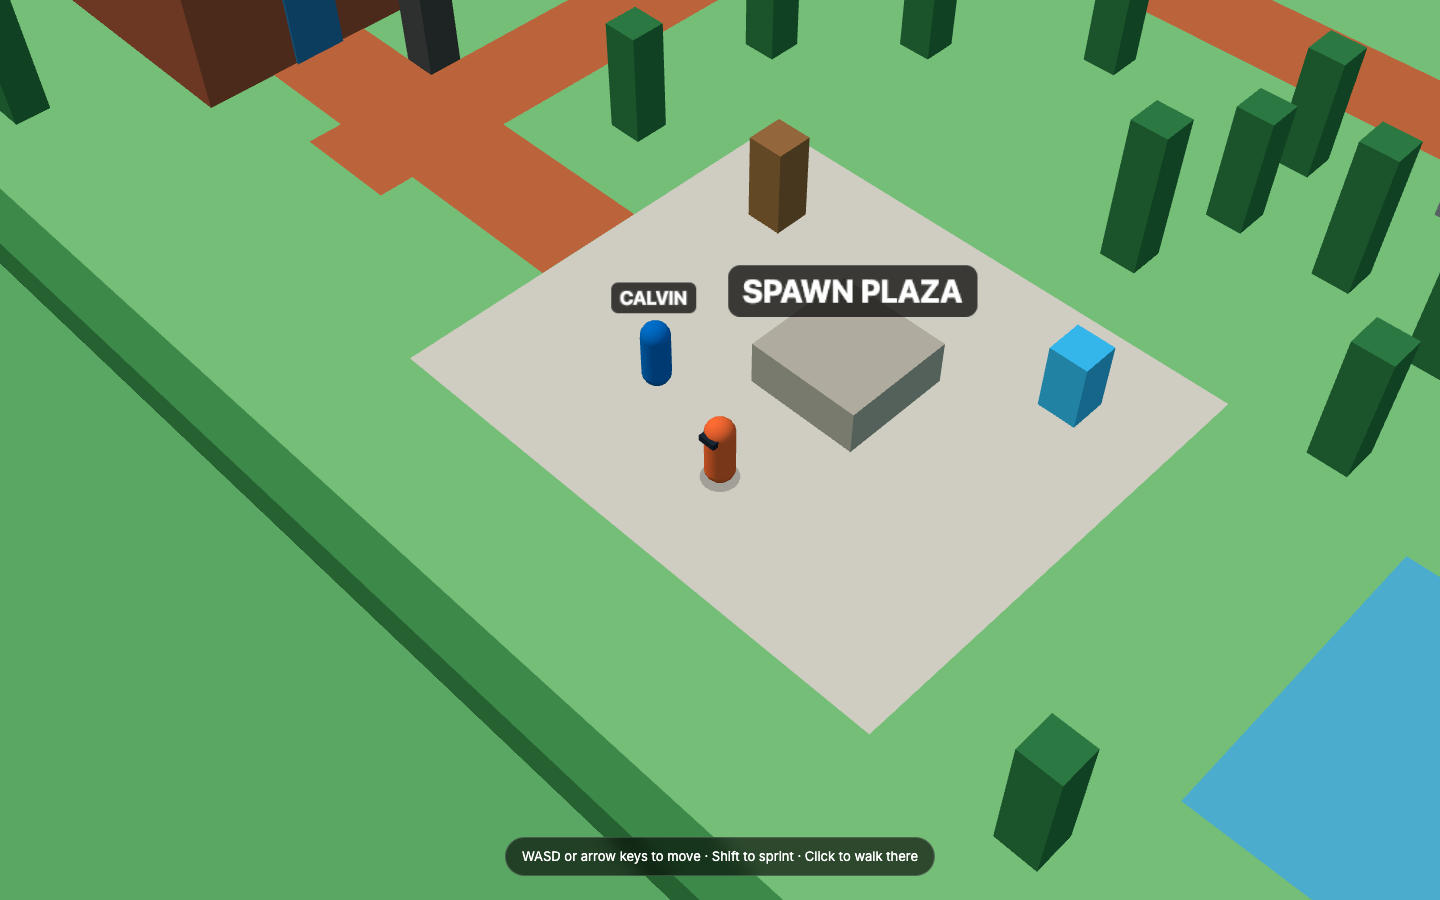
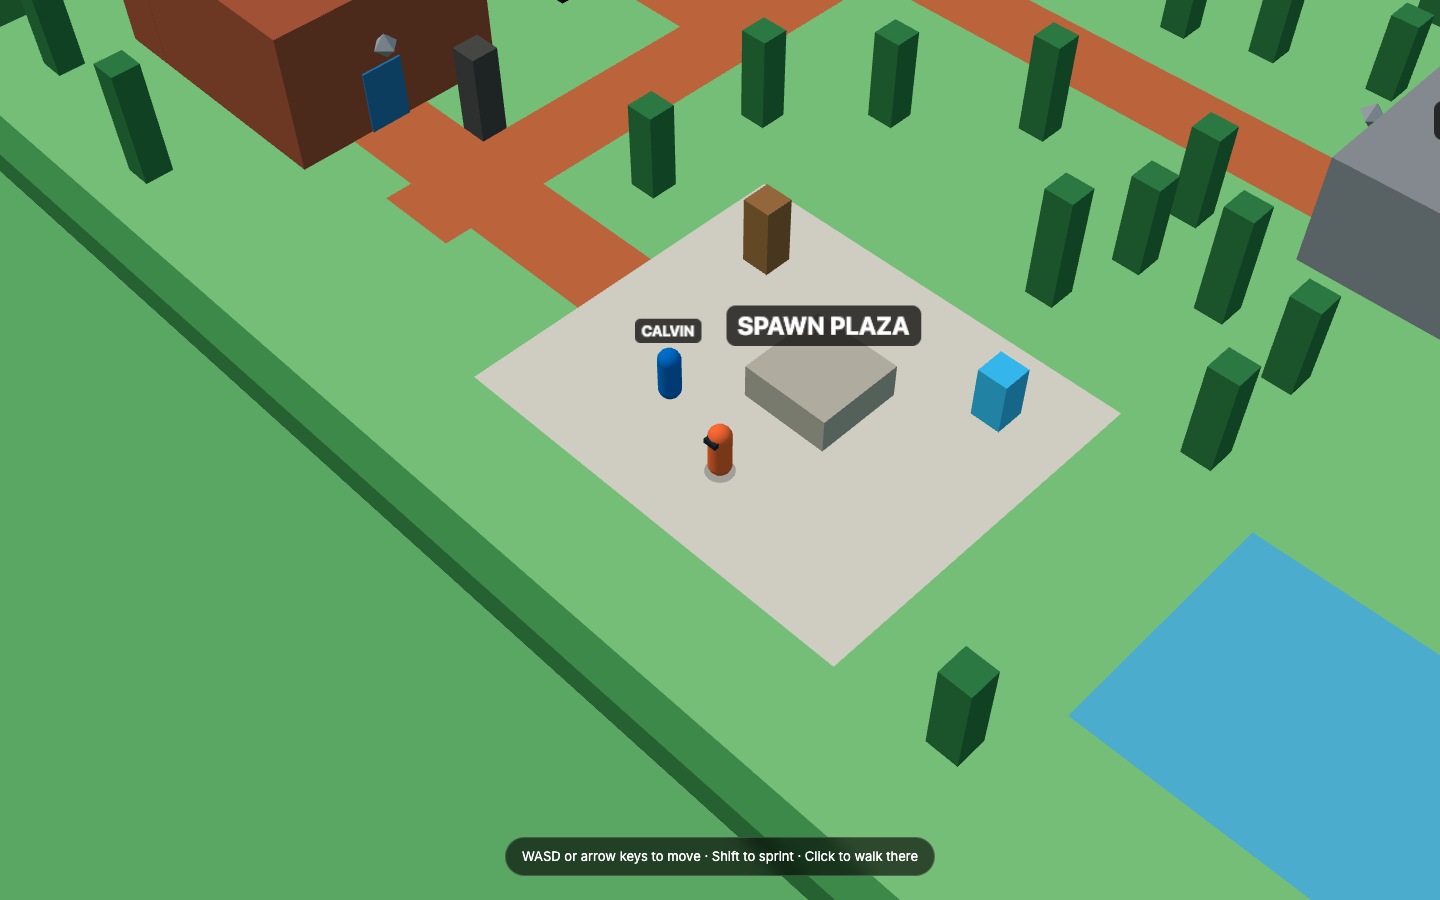
Fix joystick in place, pull the camera back, and flash the controls hint

diff --git a/src/engine/input.ts b/src/engine/input.ts
@@ -11,7 +11,8 @@ export interface InputState {
   tap: { x: number; y: number } | null;
 }
 
-const JOY_RADIUS = 56; // px
+const JOY_RADIUS = 48; // px
+const JOY_GRAB = 1.8; // a touch within this many radii of the stick grabs it
 const JOY_DEADZONE = 0.14;
 const JOY_SPRINT = 0.85;
 const TAP_SLOP = 12; // px a touch can drift and still count as a tap
@@ -132,19 +133,33 @@ export class Input {
     }
   };
 
-  private inJoystickZone(x: number, y: number): boolean {
-    const r = this.canvas.getBoundingClientRect();
-    return x - r.left < r.width * 0.45 && y - r.top > r.height * 0.5;
+  /** The stick sits at a fixed spot (placed by CSS). Returns its center, or null when it's hidden. */
+  private joystickCenter(): { x: number; y: number } | null {
+    const r = this.joyEl.getBoundingClientRect();
+    if (getComputedStyle(this.joyEl).display === 'none') return null;
+    return { x: r.left, y: r.top };
+  }
+
+  private setJoystick(clientX: number, clientY: number): void {
+    let dx = clientX - this.joyBase.x;
+    let dy = clientY - this.joyBase.y;
+    const dist = Math.hypot(dx, dy);
+    if (dist > JOY_RADIUS) {
+      dx = (dx / dist) * JOY_RADIUS;
+      dy = (dy / dist) * JOY_RADIUS;
+    }
+    this.joyVec = { x: dx / JOY_RADIUS, y: dy / JOY_RADIUS };
+    this.drawJoystick();
   }
 
   private onPointerDown = (e: PointerEvent): void => {
     if (e.pointerType === 'mouse' && e.button !== 0) return;
-    if (e.pointerType === 'touch' && this.joyId === null && this.inJoystickZone(e.clientX, e.clientY)) {
+    const center = e.pointerType === 'touch' && this.joyId === null ? this.joystickCenter() : null;
+    if (center && Math.hypot(e.clientX - center.x, e.clientY - center.y) <= JOY_RADIUS * JOY_GRAB) {
       this.joyId = e.pointerId;
-      this.joyBase = { x: e.clientX, y: e.clientY };
-      this.joyVec = { x: 0, y: 0 };
+      this.joyBase = center;
       this.canvas.setPointerCapture(e.pointerId);
-      this.drawJoystick();
+      this.setJoystick(e.clientX, e.clientY);
       return;
     }
     this.pending.set(e.pointerId, { x: e.clientX, y: e.clientY, t: performance.now(), moved: false });
@@ -152,19 +167,7 @@ export class Input {
 
   private onPointerMove = (e: PointerEvent): void => {
     if (e.pointerId === this.joyId) {
-      let dx = e.clientX - this.joyBase.x;
-      let dy = e.clientY - this.joyBase.y;
-      const dist = Math.hypot(dx, dy);
-      if (dist > JOY_RADIUS) {
-        // Past the rim, drag the base along so the thumb never "falls off" the stick.
-        const over = dist - JOY_RADIUS;
-        this.joyBase.x += (dx / dist) * over;
-        this.joyBase.y += (dy / dist) * over;
-        dx = (dx / dist) * JOY_RADIUS;
-        dy = (dy / dist) * JOY_RADIUS;
-      }
-      this.joyVec = { x: dx / JOY_RADIUS, y: dy / JOY_RADIUS };
-      this.drawJoystick();
+      this.setJoystick(e.clientX, e.clientY);
       return;
     }
     const p = this.pending.get(e.pointerId);
@@ -191,12 +194,12 @@ export class Input {
   private endJoystick(): void {
     this.joyId = null;
     this.joyVec = { x: 0, y: 0 };
-    this.joyEl.classList.remove('is-active');
+    this.joyEl.classList.remove('is-active', 'is-sprint');
+    this.knobEl.style.transform = '';
   }
 
   private drawJoystick(): void {
     this.joyEl.classList.add('is-active');
-    this.joyEl.style.transform = `translate(${this.joyBase.x}px, ${this.joyBase.y}px)`;
     this.knobEl.style.transform = `translate(${this.joyVec.x * JOY_RADIUS}px, ${this.joyVec.y * JOY_RADIUS}px)`;
     this.joyEl.classList.toggle('is-sprint', Math.hypot(this.joyVec.x, this.joyVec.y) >= JOY_SPRINT);
   }

diff --git a/tests/e2e/smoke.spec.ts b/tests/e2e/smoke.spec.ts
@@ -118,7 +118,7 @@ test.describe('keyboard', () => {
 test.describe('touch', () => {
   test.skip(({ isMobile }) => !isMobile, 'mobile only');
 
-  test('joystick spawns under the thumb, moves the player, and releases cleanly', async ({ page }) => {
+  test('fixed joystick moves the player and releases cleanly', async ({ page }) => {
     await boot(page);
     const cdp = await page.context().newCDPSession(page);
     const touch = (type: 'touchStart' | 'touchMove' | 'touchEnd', x?: number, y?: number) =>
@@ -127,16 +127,17 @@ test.describe('touch', () => {
         touchPoints: x === undefined ? [] : [{ x, y: y!, id: 1 }],
       });
     const start = await pos(page);
-    await touch('touchStart', 90, 700);
+    await expect(page.locator('.joystick-knob')).toBeVisible(); // fixed stick, always on screen
+    await touch('touchStart', 84, 748);
     await expect(page.locator('.joystick')).toHaveClass(/is-active/);
     // Light push: analog walk, slower than full walk speed.
-    await touch('touchMove', 90, 680);
+    await touch('touchMove', 84, 728);
     await expect.poll(async () => dist(await pos(page), start), { timeout: 20_000 }).toBeGreaterThan(0.4);
     const slow = await speed(page);
     expect(slow).toBeGreaterThan(0.5);
     expect(slow).toBeLessThan(3.9);
     // Full push: sprint.
-    await touch('touchMove', 90, 620);
+    await touch('touchMove', 84, 690);
     await expect(page.locator('.joystick')).toHaveClass(/is-sprint/);
     await expect.poll(() => speed(page), { timeout: 20_000 }).toBeCloseTo(6.5, 1);
     await touch('touchEnd');
@@ -144,7 +145,7 @@ test.describe('touch', () => {
     await settle(page);
   });
 
-  test('a touch outside the joystick zone does not spawn the joystick', async ({ page }) => {
+  test('a touch away from the joystick does not grab it', async ({ page }) => {
     await boot(page);
     const cdp = await page.context().newCDPSession(page);
     await cdp.send('Input.dispatchTouchEvent', { type: 'touchStart', touchPoints: [{ x: 300, y: 300, id: 1 }] });

diff --git a/src/ui/styles/main.css b/src/ui/styles/main.css
@@ -95,10 +95,18 @@ body {
   text-align: center;
   pointer-events: none !important;
   transition: opacity 0.6s ease;
+  animation: hint-flash 1.3s ease-in-out infinite;
+}
+
+@keyframes hint-flash {
+  50% {
+    opacity: 0.35;
+  }
 }
 
 .hint.is-hidden {
   opacity: 0;
+  animation: none;
 }
 
 .hint-touch,
@@ -113,34 +121,46 @@ body {
 .is-touch .hint {
   bottom: auto;
   top: calc(16px + var(--safe-top));
+  border-radius: 18px;
+  font-size: 14px;
+  white-space: nowrap;
 }
 
-/* Virtual joystick: spawns where the thumb lands */
+/* Virtual joystick: fixed bottom-left, faint and smaller until the thumb is on it */
 .joystick {
   position: absolute;
-  left: 0;
-  top: 0;
+  left: calc(84px + var(--safe-left));
+  bottom: calc(96px + var(--safe-bottom));
   width: 0;
   height: 0;
-  opacity: 0;
+  display: none;
+  opacity: 0.4;
+  transform: scale(0.82);
   pointer-events: none !important;
-  transition: opacity 0.12s ease;
+  transition:
+    opacity 0.15s ease,
+    transform 0.15s ease;
+}
+
+.is-touch .joystick {
+  display: block;
 }
 
 .joystick.is-active {
   opacity: 1;
+  transform: none;
 }
 
 .joystick::before {
   content: '';
   position: absolute;
-  left: -56px;
-  top: -56px;
-  width: 112px;
-  height: 112px;
-  border: 2px solid rgba(255, 255, 255, 0.55);
+  left: -48px;
+  top: -48px;
+  width: 96px;
+  height: 96px;
+  border: 2px solid rgba(255, 255, 255, 0.6);
   border-radius: 50%;
-  background: rgba(0, 0, 0, 0.25);
+  background: rgba(0, 0, 0, 0.22);
 }
 
 .joystick.is-sprint::before {
@@ -150,10 +170,10 @@ body {
 
 .joystick-knob {
   position: absolute;
-  left: -26px;
-  top: -26px;
-  width: 52px;
-  height: 52px;
+  left: -22px;
+  top: -22px;
+  width: 44px;
+  height: 44px;
   border-radius: 50%;
   background: rgba(255, 255, 255, 0.92);
 }
@@ -260,6 +280,7 @@ body {
   .hint,
   .joystick {
     transition: none;
+    animation: none;
   }
   .a-button.is-pulse {
     animation: none;

diff --git a/src/engine/camera.ts b/src/engine/camera.ts
@@ -20,8 +20,8 @@ export interface CameraOptions {
 
 const SMOOTH_TIME = 0.15; // critically damped follow
 const LEAD = 1.4; // world units the camera looks ahead at full walk speed
-const BASE_DISTANCE = 36;
-const MIN_VISIBLE_WIDTH = 13; // world units across the screen, so portrait phones zoom out
+const BASE_DISTANCE = 46;
+const MIN_VISIBLE_WIDTH = 17; // world units across the screen, so portrait phones zoom out
 
 /** Fixed-angle follow camera: narrow FOV, high and angled down, for an isometric feel with some depth. */
 export class FollowCamera {

diff --git a/index.html b/index.html
@@ -20,7 +20,7 @@
   <div id="ui">
     <div id="hint" class="hint" role="note">
       <span class="hint-desktop">WASD or arrow keys to move · Shift to sprint · Click to walk there</span>
-      <span class="hint-touch">Drag bottom-left to move · Tap to walk there</span>
+      <span class="hint-touch">Use the joystick to move<br />or tap the ground to walk there</span>
     </div>
     <button id="a-button" class="a-button" type="button" aria-label="Interact">A</button>
   </div>

diff --git a/src/main.ts b/src/main.ts
@@ -97,7 +97,10 @@ function boot(): void {
     hintDismissed = true;
     hint.classList.add('is-hidden');
   };
-  setTimeout(dismissHint, 30_000);
+  // Desktop: the hint fades after 30s. Touch: it keeps flashing until the visitor first moves.
+  setTimeout(() => {
+    if (!document.body.classList.contains('is-touch')) dismissHint();
+  }, 30_000);
 
   const raycaster = new THREE.Raycaster();
   const groundPlane = new THREE.Plane(new THREE.Vector3(0, 1, 0), 0);

diff --git a/docs/PROGRESS.md b/docs/PROGRESS.md
@@ -6,8 +6,8 @@ Plan: [mypark-world-plan.md](mypark-world-plan.md). All world work is on the `wo
 
 | # | Milestone | State |
 |---|---|---|
-| M0 | Project setup | Done (Nov 15, 2026). Waiting on Calvin: switch Pages source to GitHub Actions |
-| M1 | Graybox movement ★ | Built, tests green. **Waiting on Calvin's phone review** |
+| M0 | Project setup | Done (Nov 15, 2026). Pages source switched to GitHub Actions and verified: only site files are served |
+| M1 | Graybox movement ★ | Done. Approved by Calvin on his phone (Nov 15, 2026) |
 | M2–M8 | | Not started |
 
 ## How to run
@@ -40,13 +40,18 @@ URL knobs: `?debug=1` (grid, collision cells, interact radii, FPS), `?yaw=0` (sq
 - `npm run assets` pipeline in place (meshopt + WebP). Manifest is empty until M2. The CLI was verified on a Kenney building: 120 KB to 20 KB.
 - `CLAUDE.md` updated for the new stack.
 
-## M1: Graybox movement ★ (ready for review)
+## M1: Graybox movement ★ (approved)
+
+**Calvin's review (Nov 15):** movement, speed, and collision are right. Changes made from his feedback:
+- Joystick is now fixed bottom-left and always visible on touch: smaller and 40% opacity at rest, full size and opacity under the thumb. A touch within reach of the stick grabs it; taps anywhere else are tap-to-move.
+- Camera pulled back about 28% (distance 36 to 46, portrait minimum width 13 to 17 units).
+- The controls hint flashes until the visitor first moves (touch) or for 30s (desktop).
 
 **What's in**
 - Gray-box exterior, 80 x 60 tiles, every area at its planned position: four gyms up the west side, Spawn Plaza, Workshop, Blacktop with track loop, Calvin's Court (fenced, two openings), hedged edges, 60 placeholder trees.
 - Capsule player. Walk 4 u/s, sprint 6.5 u/s, about 80ms to full speed.
 - Keyboard: WASD / arrows, normalized diagonals, Shift sprints.
-- Touch: joystick spawns under the thumb in the bottom-left zone (left 45%, bottom 50%), analog walk on a light push, sprint past 85%. The base drags along if the thumb goes past the rim.
+- Touch: fixed joystick bottom-left, analog walk on a light push, sprint past 85%.
 - Click / tap-to-move: A* on the grid with string-pulling. A blocked target (building, tree) retargets to the nearest open tile on the side facing the player.
 - Collision: circle vs grid, axis-separated, slides along walls, sub-stepped so nothing tunnels.
 - Camera: perspective, 30° FOV, 50° down, 45° yaw, critically damped follow (0.15s) with a small lead. Clamped to map bounds. Portrait phones auto zoom out. Buildings between camera and player fade to 30%.
@@ -64,13 +69,6 @@ URL knobs: `?debug=1` (grid, collision cells, interact radii, FPS), `?yaw=0` (sq
 | ![desktop](progress/m1-desktop.png) | ![mobile](progress/m1-mobile.png) |
 | ![desktop debug](progress/m1-desktop-debug.png) | ![mobile debug](progress/m1-mobile-debug.png) |
 
-**What Calvin should judge on his phone**
-1. Joystick: does it land where your thumb expects, and is the 85% sprint threshold right? (My read: most thumbs rest at the rim, so you'll sprint almost all the time. Raising it or making sprint a toggle are both cheap.)
-2. Speed: walk 4, sprint 6.5. Too slow to cross the map, or about right?
-3. Camera: default 45° yaw vs `?yaw=0`. At 45° the main path runs diagonally on screen, so on a keyboard you hold two keys to follow it. Also try `?zoom=1.3`.
-4. Tap-to-move: does the route it picks look sane, and is auto-sprint on long trips welcome?
-5. Collision: scrape along the fountain, the gyms, and the court fence. Anything sticky?
-
 ---
 
 ## Decisions and deviations from the plan
@@ -83,7 +81,7 @@ Defaults I picked where the plan was ambiguous or didn't fit. Flag any you want 
 | TypeScript version | TypeScript (strict) | 5.9.3, not 7.x | 7 is a new major. 5.9 is the safe choice with the rest of the toolchain |
 | three.js version | r165+, pinned | 0.187.0 for the world. Classic keeps 0.165.0 from its CDN import map | Classic is frozen as-is |
 | Classic asset paths | "Fix its asset paths to `/classic/assets/...` or a shared `/images/`" | Moved `assets/` to `public/classic/assets/`. Classic's relative paths work with zero edits | The classic files stay byte-identical. The world gets its own optimized copies in `public/images/` at M3 |
-| Joystick | nipplejs or custom | Custom (in `src/engine/input.ts`) | One less dependency, and the spawn-under-thumb zone rule is easier to own |
+| Joystick | nipplejs or custom; spawns where the thumb lands | Custom (in `src/engine/input.ts`), fixed position | One less dependency. Calvin preferred a fixed stick after testing on his phone |
 | Tap-to-move speed | Not specified | Walks, auto-sprints when the trip is over 12 units | Crossing an 80-tile map at walk speed by tap is a slog |
 | Camera tuning | Fixed 45° yaw | 45° default, plus `?yaw=` and `?zoom=` knobs | So the M1 feel review can compare options without a rebuild |
 | Pond | "hedges, water, or fences" at edges | Added a small pond east of the plaza | Fills the empty south-middle. Easy to cut |
@@ -94,4 +92,3 @@ Defaults I picked where the plan was ambiguous or didn't fit. Flag any you want 
 ## Open issues
 
 - **LAN preview not verified from this laptop.** The dev server listens on all interfaces, but a connection from the laptop to its own LAN IP times out. The laptop runs CrowdStrike, FortiClient, and Tailscale network extensions, and one of them may filter LAN traffic. If the phone can't load the LAN URL, the plan's fallback is a temporary `cloudflared` tunnel (not installed here).
-- **Pushing the M0 workflow also pushed commit `2d8ae5d`** (CLAUDE.md, this plan, `.gitignore`), which was local-only. Until the Pages source is switched to GitHub Actions, the branch deploy serves `/docs/mypark-world-plan.md` and `/CLAUDE.md` at the site URL. Switching the source fixes it.
